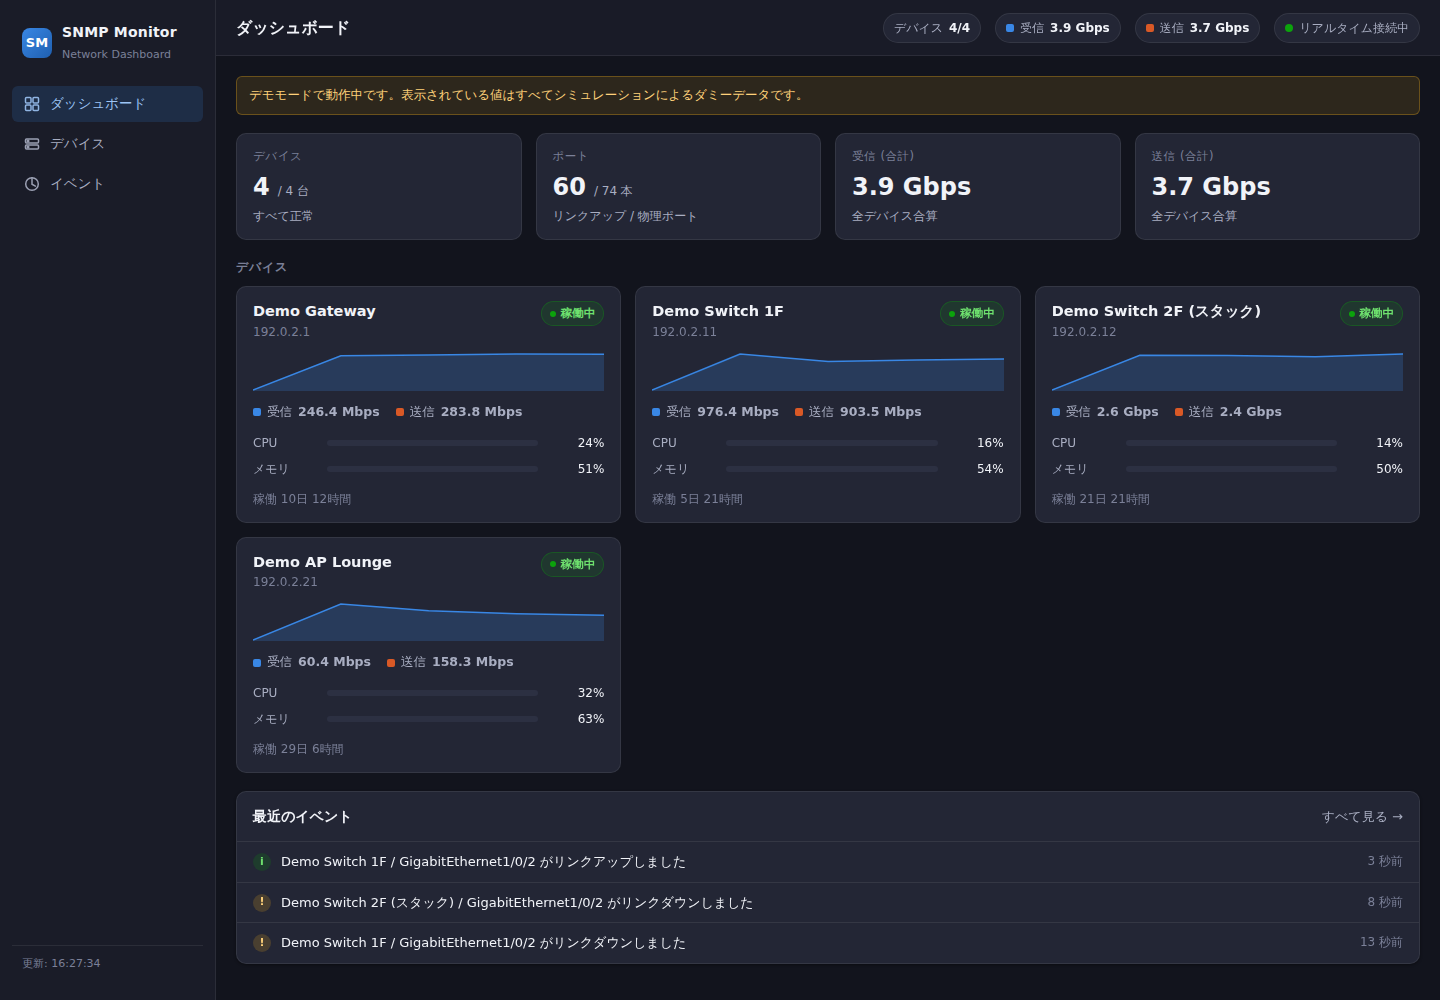
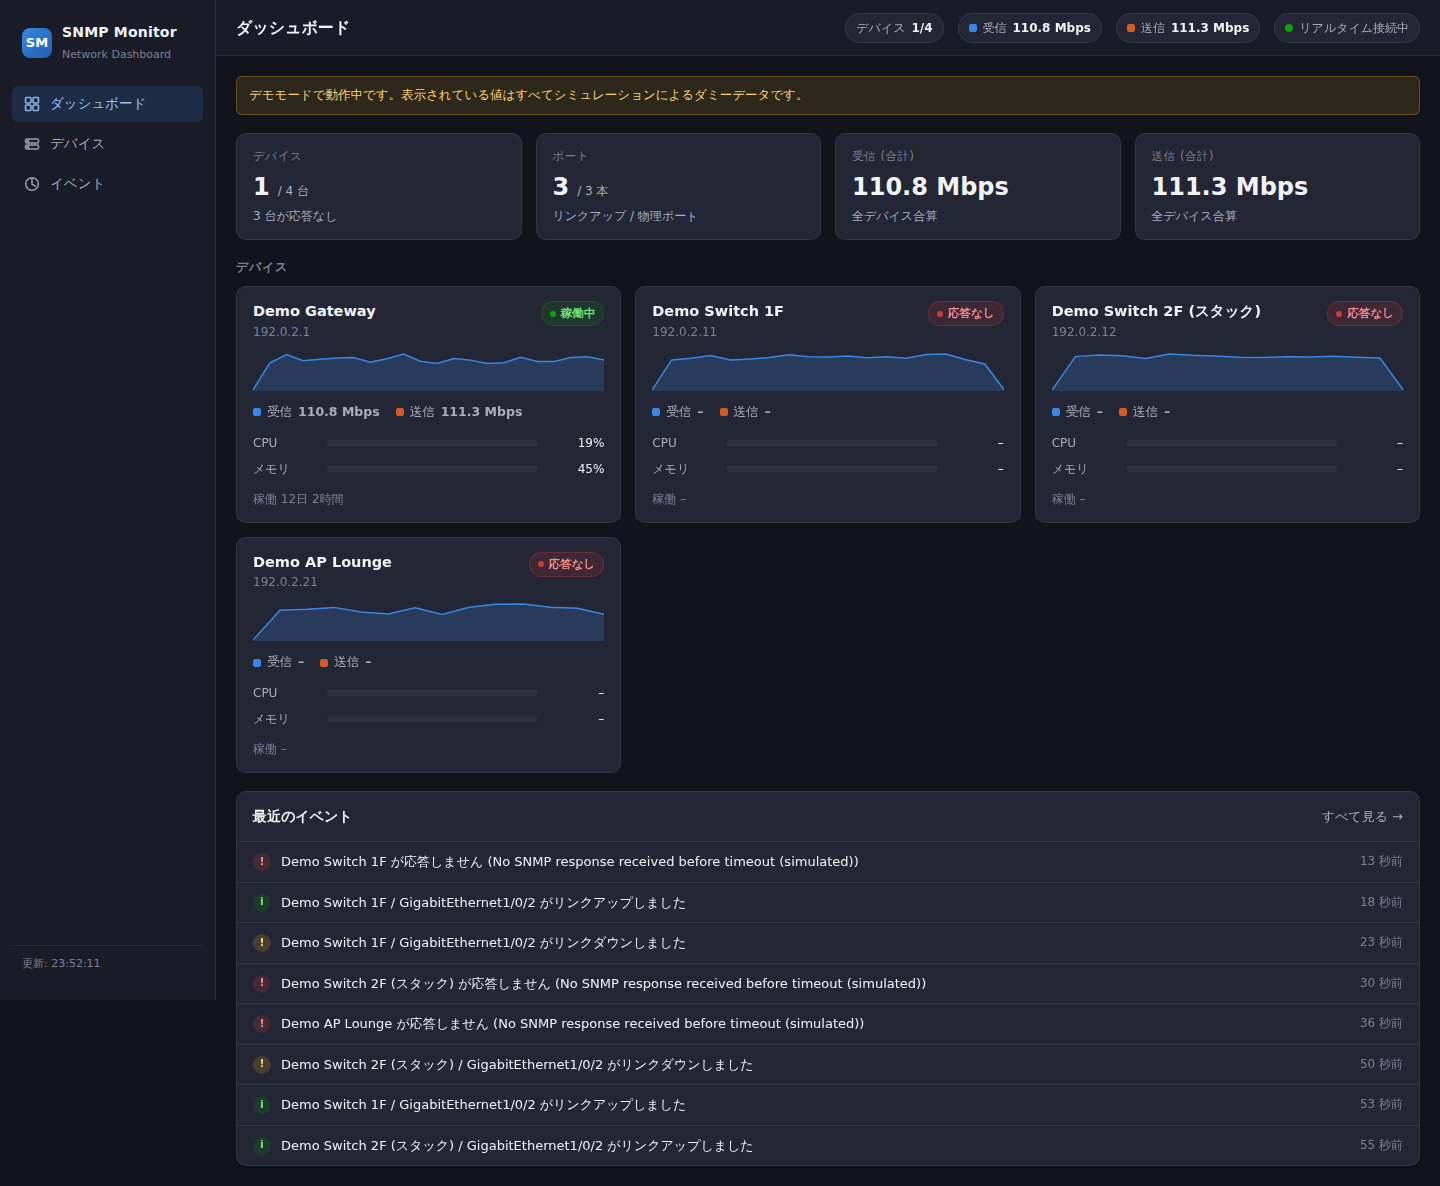
ポートパネルの区画ごとの上端を揃えた
MGMT と SFP の区画には見出しがあり、本体の区画にはないため、
見出しの高さのぶんだけ本体ポートの開始位置がずれていた。

見出しを持つ区画が 1 つでもあるパネルでは、全区画に見出し行を置いて
高さを揃える。本体区画の見出しは空のままにして、実機のフェイスプレート
らしい見た目を保つ。見出しがまったくないパネル (単純な機器) では
これまでどおり余分な行を作らない。

Claude-Session: https://claude.ai/code/session_01XwwbqgZzEMAUKcYv7RCvKP

diff --git a/snmp_monitor/web/app.js b/snmp_monitor/web/app.js
@@ -566,8 +566,11 @@ function portPanelsHtml(portMap, interfaces) {
       .join("")}</div></div>`;
   }
   return portMap.panels
-    .map(
-      (panel) => `
+    .map((panel) => {
+      // 見出しを持つ区画が 1 つでもあれば、全区画に見出し行を置いて上端を揃える
+      // (本体区画には見出しを出さないので、中身は空のまま高さだけ確保する)
+      const withLabels = panel.sections.some((section) => SECTION_LABELS[section.kind]);
+      return `
       <div class="port-panel" data-dense="${isDensePanel(panel)}">
         ${panel.name ? `<div class="panel-title">${escapeHtml(panel.name)}</div>` : ""}
         <div class="panel-sections">
@@ -576,8 +579,8 @@ function portPanelsHtml(portMap, interfaces) {
               (section) => `
             <div class="panel-section ${section.kind}">
               ${
-                SECTION_LABELS[section.kind]
-                  ? `<div class="panel-section-label">${SECTION_LABELS[section.kind]}</div>`
+                withLabels
+                  ? `<div class="panel-section-label">${SECTION_LABELS[section.kind] || ""}</div>`
                   : ""
               }
               <div class="port-rows">
@@ -598,8 +601,8 @@ function portPanelsHtml(portMap, interfaces) {
             )
             .join("")}
         </div>
-      </div>`
-    )
+      </div>`;
+    })
     .join("");
 }
 

diff --git a/snmp_monitor/web/style.css b/snmp_monitor/web/style.css
@@ -535,9 +535,12 @@ a {
 
 .panel-section-label {
   font-size: 10px;
+  line-height: 1.5;
   color: var(--text-muted);
   margin-bottom: 6px;
   letter-spacing: 0.04em;
+  /* 見出しのない本体区画と上端を揃えるため、空でも行の高さを保つ */
+  min-height: 1.5em;
 }
 
 .port-rows {
